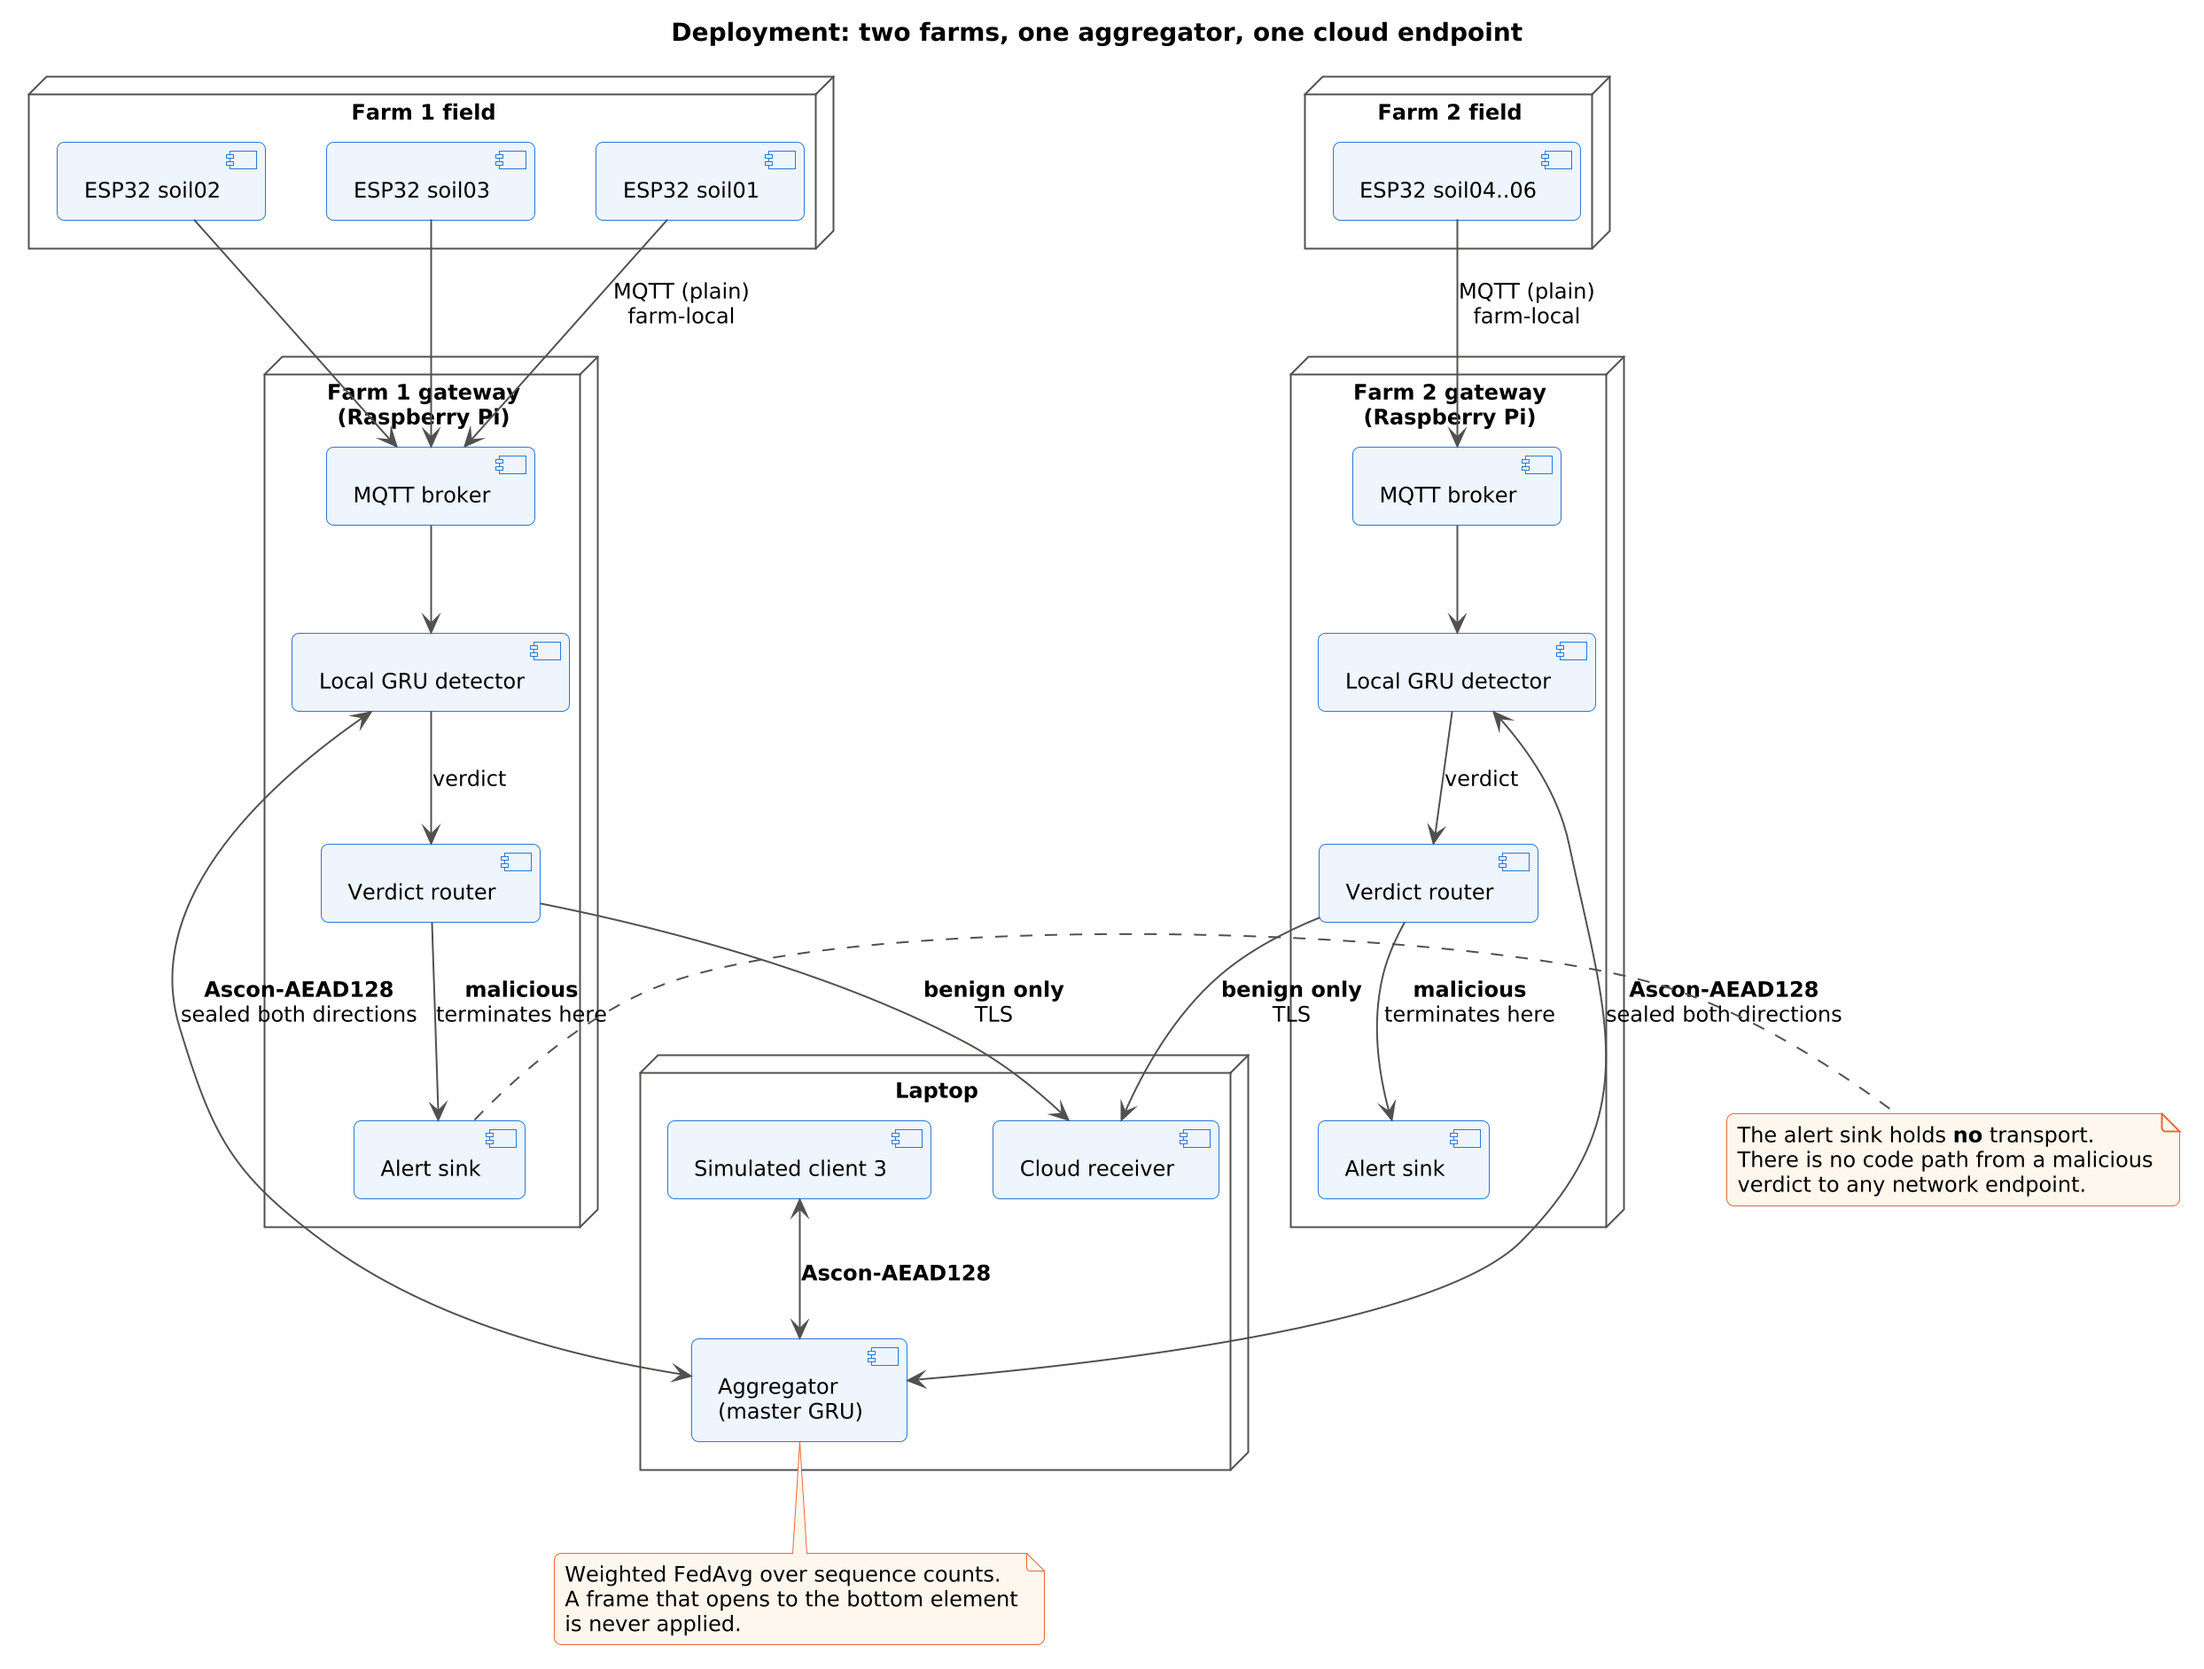
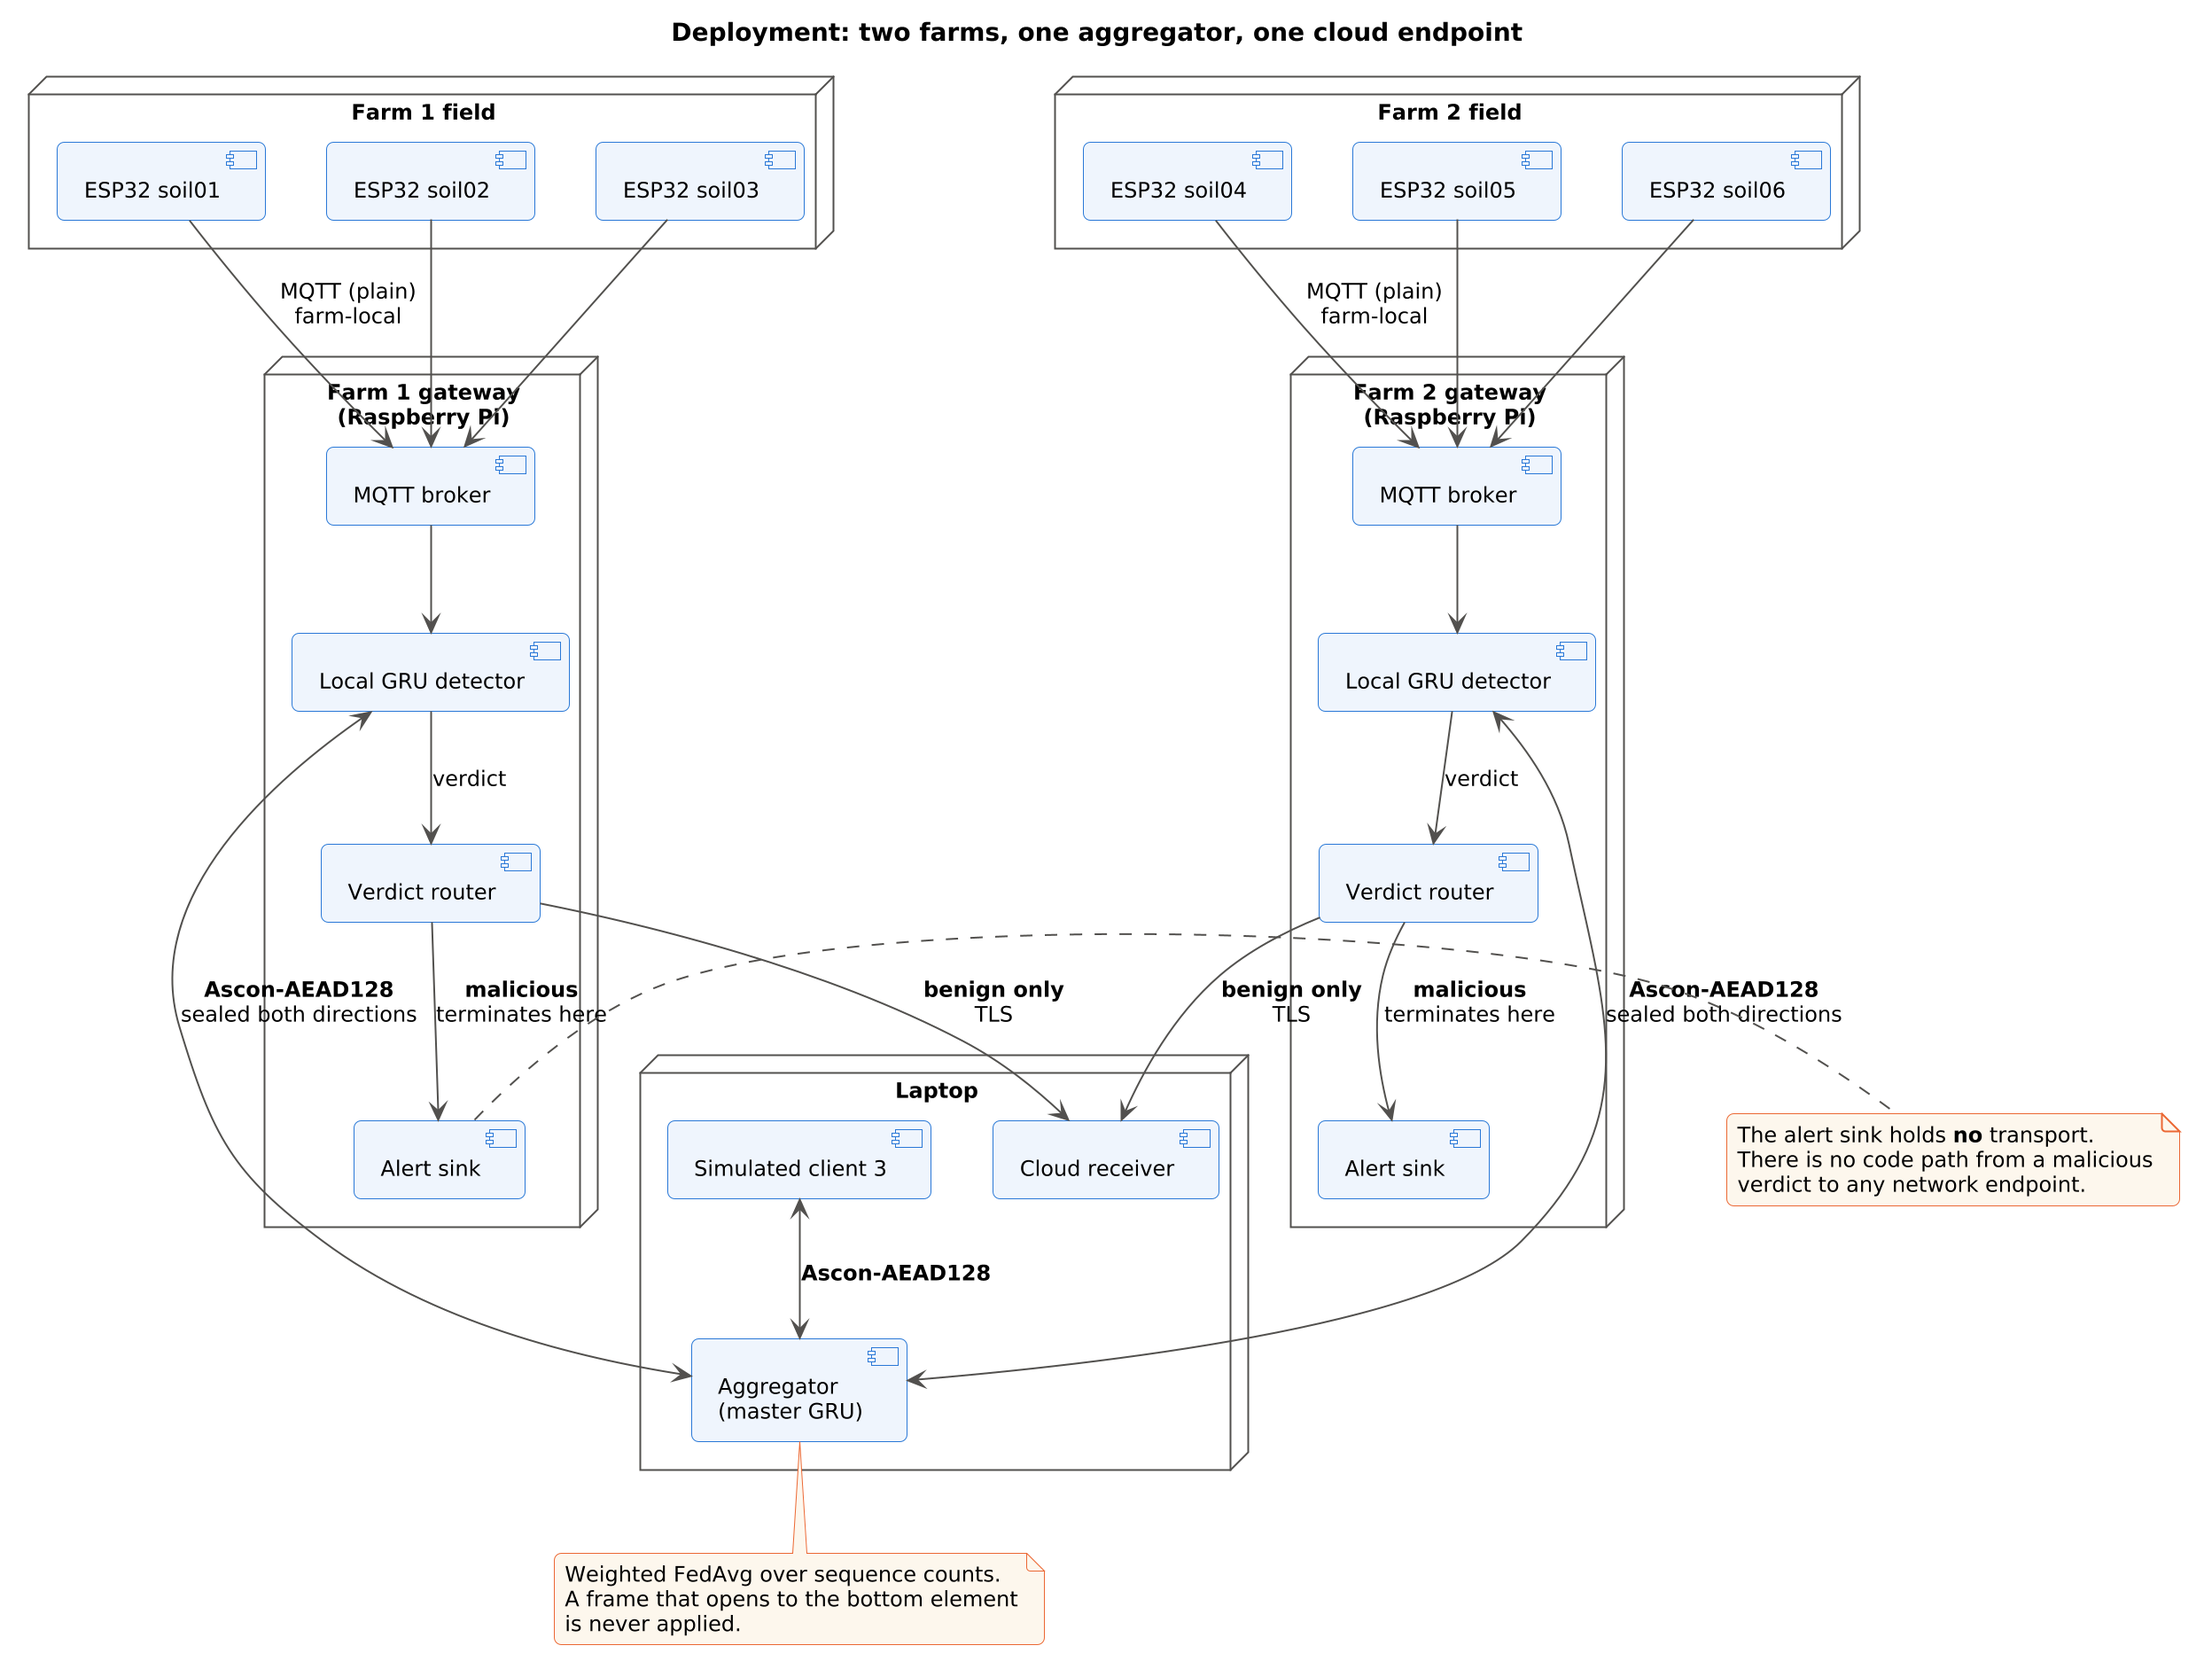
Keep both architecture views, and make the deployment diagram symmetric
The user asked for the PlantUML component diagram to stay, and it does, because the two
figures answer different questions. The component view is the only figure showing what runs
inside a gateway -- broker, detector, verdict router, alert sink -- and therefore the only
one showing the verdict being routed rather than logged. The physical view is the only one
showing how many boxes there are and what connects to what, with pin assignments on each
node. Each caption now names what the other does.

The deployment diagram was asymmetric and undercounted the hardware: Farm 1 drew three named
nodes while Farm 2 collapsed its three into one box labelled soil04..06, so a figure of a
six-node deployment showed four boxes. Farm 2 now carries soil04, soil05 and soil06 as
separate components with their own links to that farm's broker, which also settled Farm 1's
ordering into soil01, soil02, soil03 left to right.

Re-rendering used the plantuml.com service that paper/diagrams/README.md already documents
as this repository's renderer. The SVG came back empty on the first attempt and was
refetched -- an empty file would have compiled fine and silently shipped a missing asset.

diff --git a/paper/main.tex b/paper/main.tex
@@ -624,13 +624,13 @@ defences, adversarial-example robustness, production key management and device a
 dashboards, and cloud agronomic analytics.
 
 \begin{figure*}[t]\centering
-\includegraphics[width=0.98\textwidth]{topology.pdf}
-\caption{The deployment at the scale it is built: six sensor nodes, two farm gateways and one
-laptop, with the cryptographic protection named on every hop. Ascon-AEAD128 seals the parameter
-exchange in both directions; the gateway-to-cloud hop is TLS and carries benign readings only;
-the device-to-gateway hop never leaves the farm. \textbf{The malicious path is the one with no
-line to draw} --- a verdict of ``malicious'' terminates at the gateway that raised it, because
-the alert sink holds no transport (Section~\ref{sec:routing}).}
+\includegraphics[width=0.96\textwidth]{01_deployment.png}
+\caption{Component view: what runs inside each gateway, and what protects each hop. A reading
+enters at the broker, is classified, and is then \emph{routed} --- the verdict selects the path
+rather than being written to a log. Ascon-AEAD128 seals the parameter exchange in both
+directions; the gateway-to-cloud hop is TLS; the malicious-verdict path has no network endpoint
+at all, which is a property of the object graph rather than of a coding rule
+(Section~\ref{sec:routing}).}
 \label{fig:arch}
 \end{figure*}
 
@@ -1302,6 +1302,17 @@ The software-in-the-loop topology maps one-to-one onto physical hardware, which 
 containers were built for the target CPU architecture rather than the host's. Each container
 stands in for exactly one physical component, and moving between them changes where processes
 run and nothing else: no code, no protocol, and no configuration structure.
+
+\begin{figure*}[t]\centering
+\includegraphics[width=0.98\textwidth]{topology.pdf}
+\caption{The same system at the scale it is built: six sensor nodes, two farm gateways and one
+laptop, each node's sensors and pin assignments on its face. Where Fig.~\ref{fig:arch} shows what
+runs inside a gateway, this shows how many there are and what connects to what.
+\textbf{The malicious path is the one with no line to draw} --- a malicious verdict terminates at
+the gateway that raised it, because the alert sink holds no transport. A reader who counts the
+arrows finds the disjointness property rather than being told it.}
+\label{fig:topology}
+\end{figure*}
 
 \begin{table}[t]
 \caption{Hardware for the deployment. $K = 3$ requires only two gateways, because the third

diff --git a/CHANGELOG.md b/CHANGELOG.md
@@ -35,6 +35,27 @@ are the Ascon-AEAD128 crypto core (`crypto/ascon_aead.py`), implemented ahead of
 
 ## 2026-10-01
 
+### Both architecture views kept, and the deployment diagram made symmetric
+
+The user asked for the PlantUML component diagram to stay. It does, because the two figures
+answer different questions and neither substitutes for the other. **Fig. 1 (component view)** is
+the only figure showing what runs *inside* a gateway --- broker, detector, verdict router, alert
+sink --- and therefore the only one that shows the verdict being *routed* rather than logged.
+**Fig. 9 (physical view)** is the only one showing *how many* boxes there are and what connects
+to what, with pin assignments on each node's face. Each caption now names what the other does,
+so a reader is never left wondering why there are two.
+
+**The deployment diagram was asymmetric and undercounted the hardware.** Farm 1 drew three named
+sensor nodes while Farm 2 collapsed its three into a single box labelled `soil04..06`, so a
+figure illustrating a six-node deployment showed four boxes. Farm 2 now carries `soil04`,
+`soil05` and `soil06` as separate components with their own links to that farm's broker, which
+also happened to settle Farm 1's node ordering into `soil01, soil02, soil03` left to right.
+
+Re-rendering it needed the plantuml.com service, which `paper/diagrams/README.md` already
+documents as this repository's renderer; the PNG and SVG were refetched and recommitted. The SVG
+came back empty on the first attempt and was refetched --- worth noting because an empty file
+would have compiled fine and silently shipped a missing vector asset.
+
 ### The two weak references cut, and the deployment drawn at the scale it is built
 
 **Two references removed, 38 down to 36.** The distributed-IoT differential-privacy paper and the
